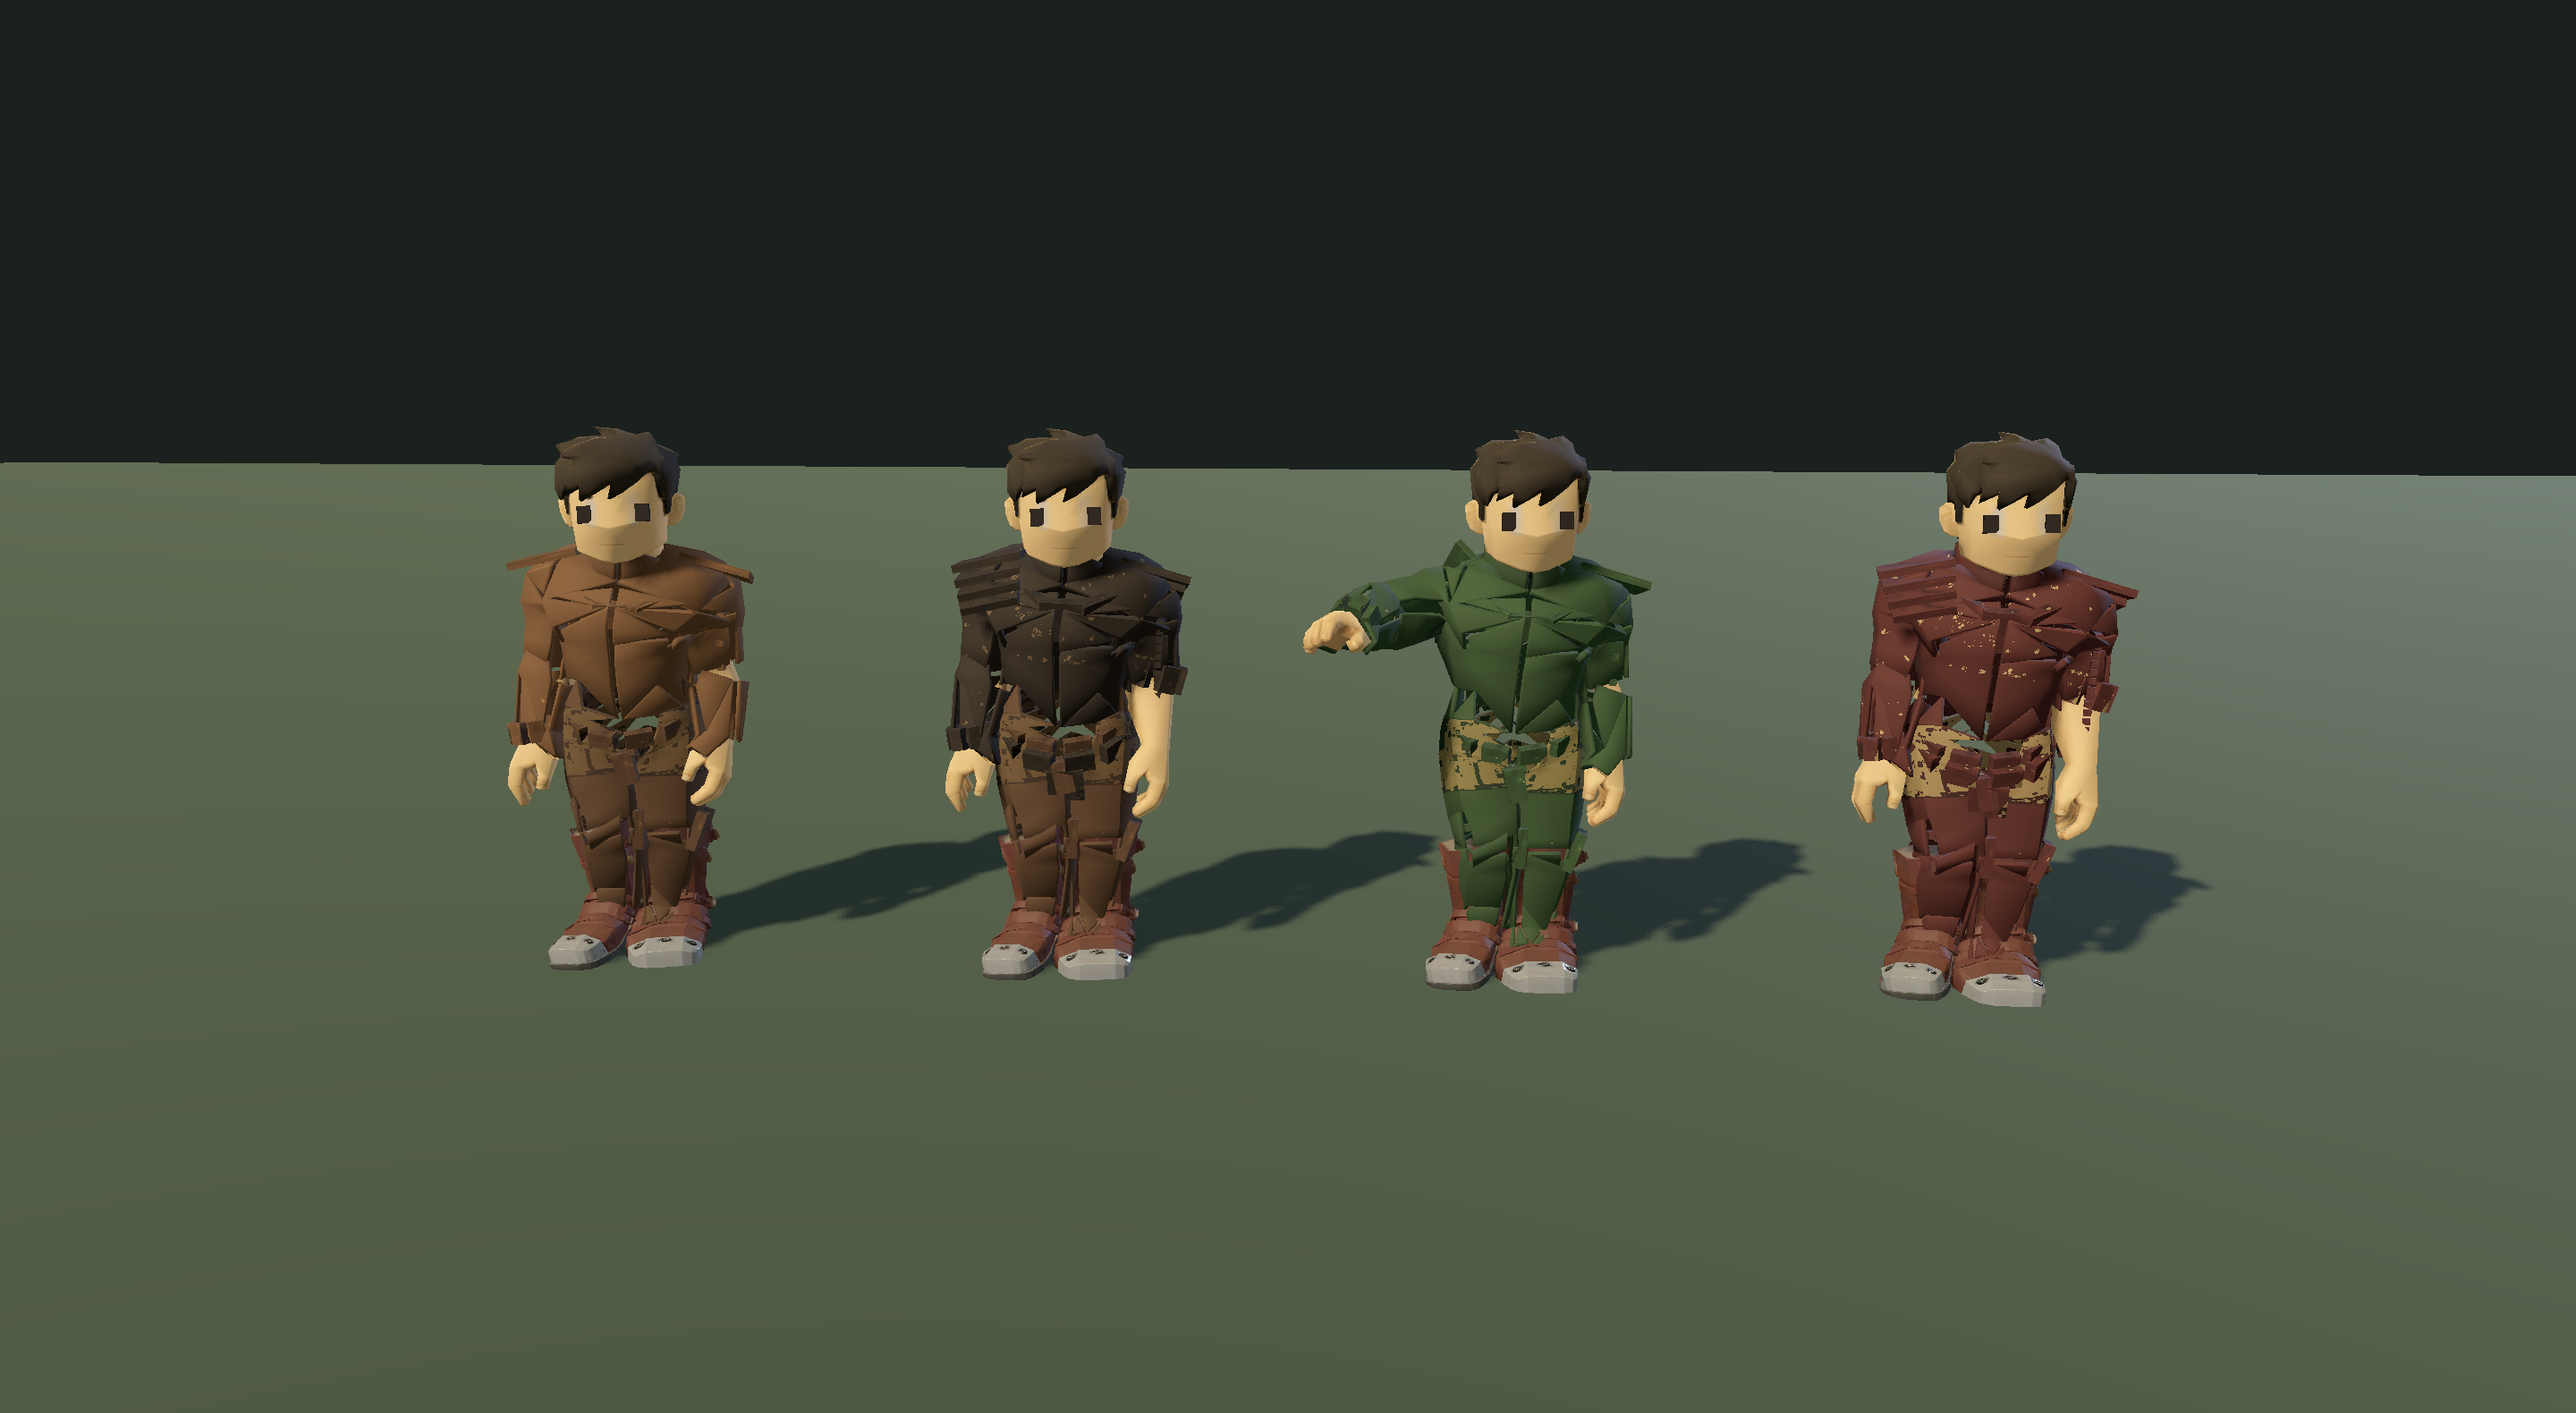
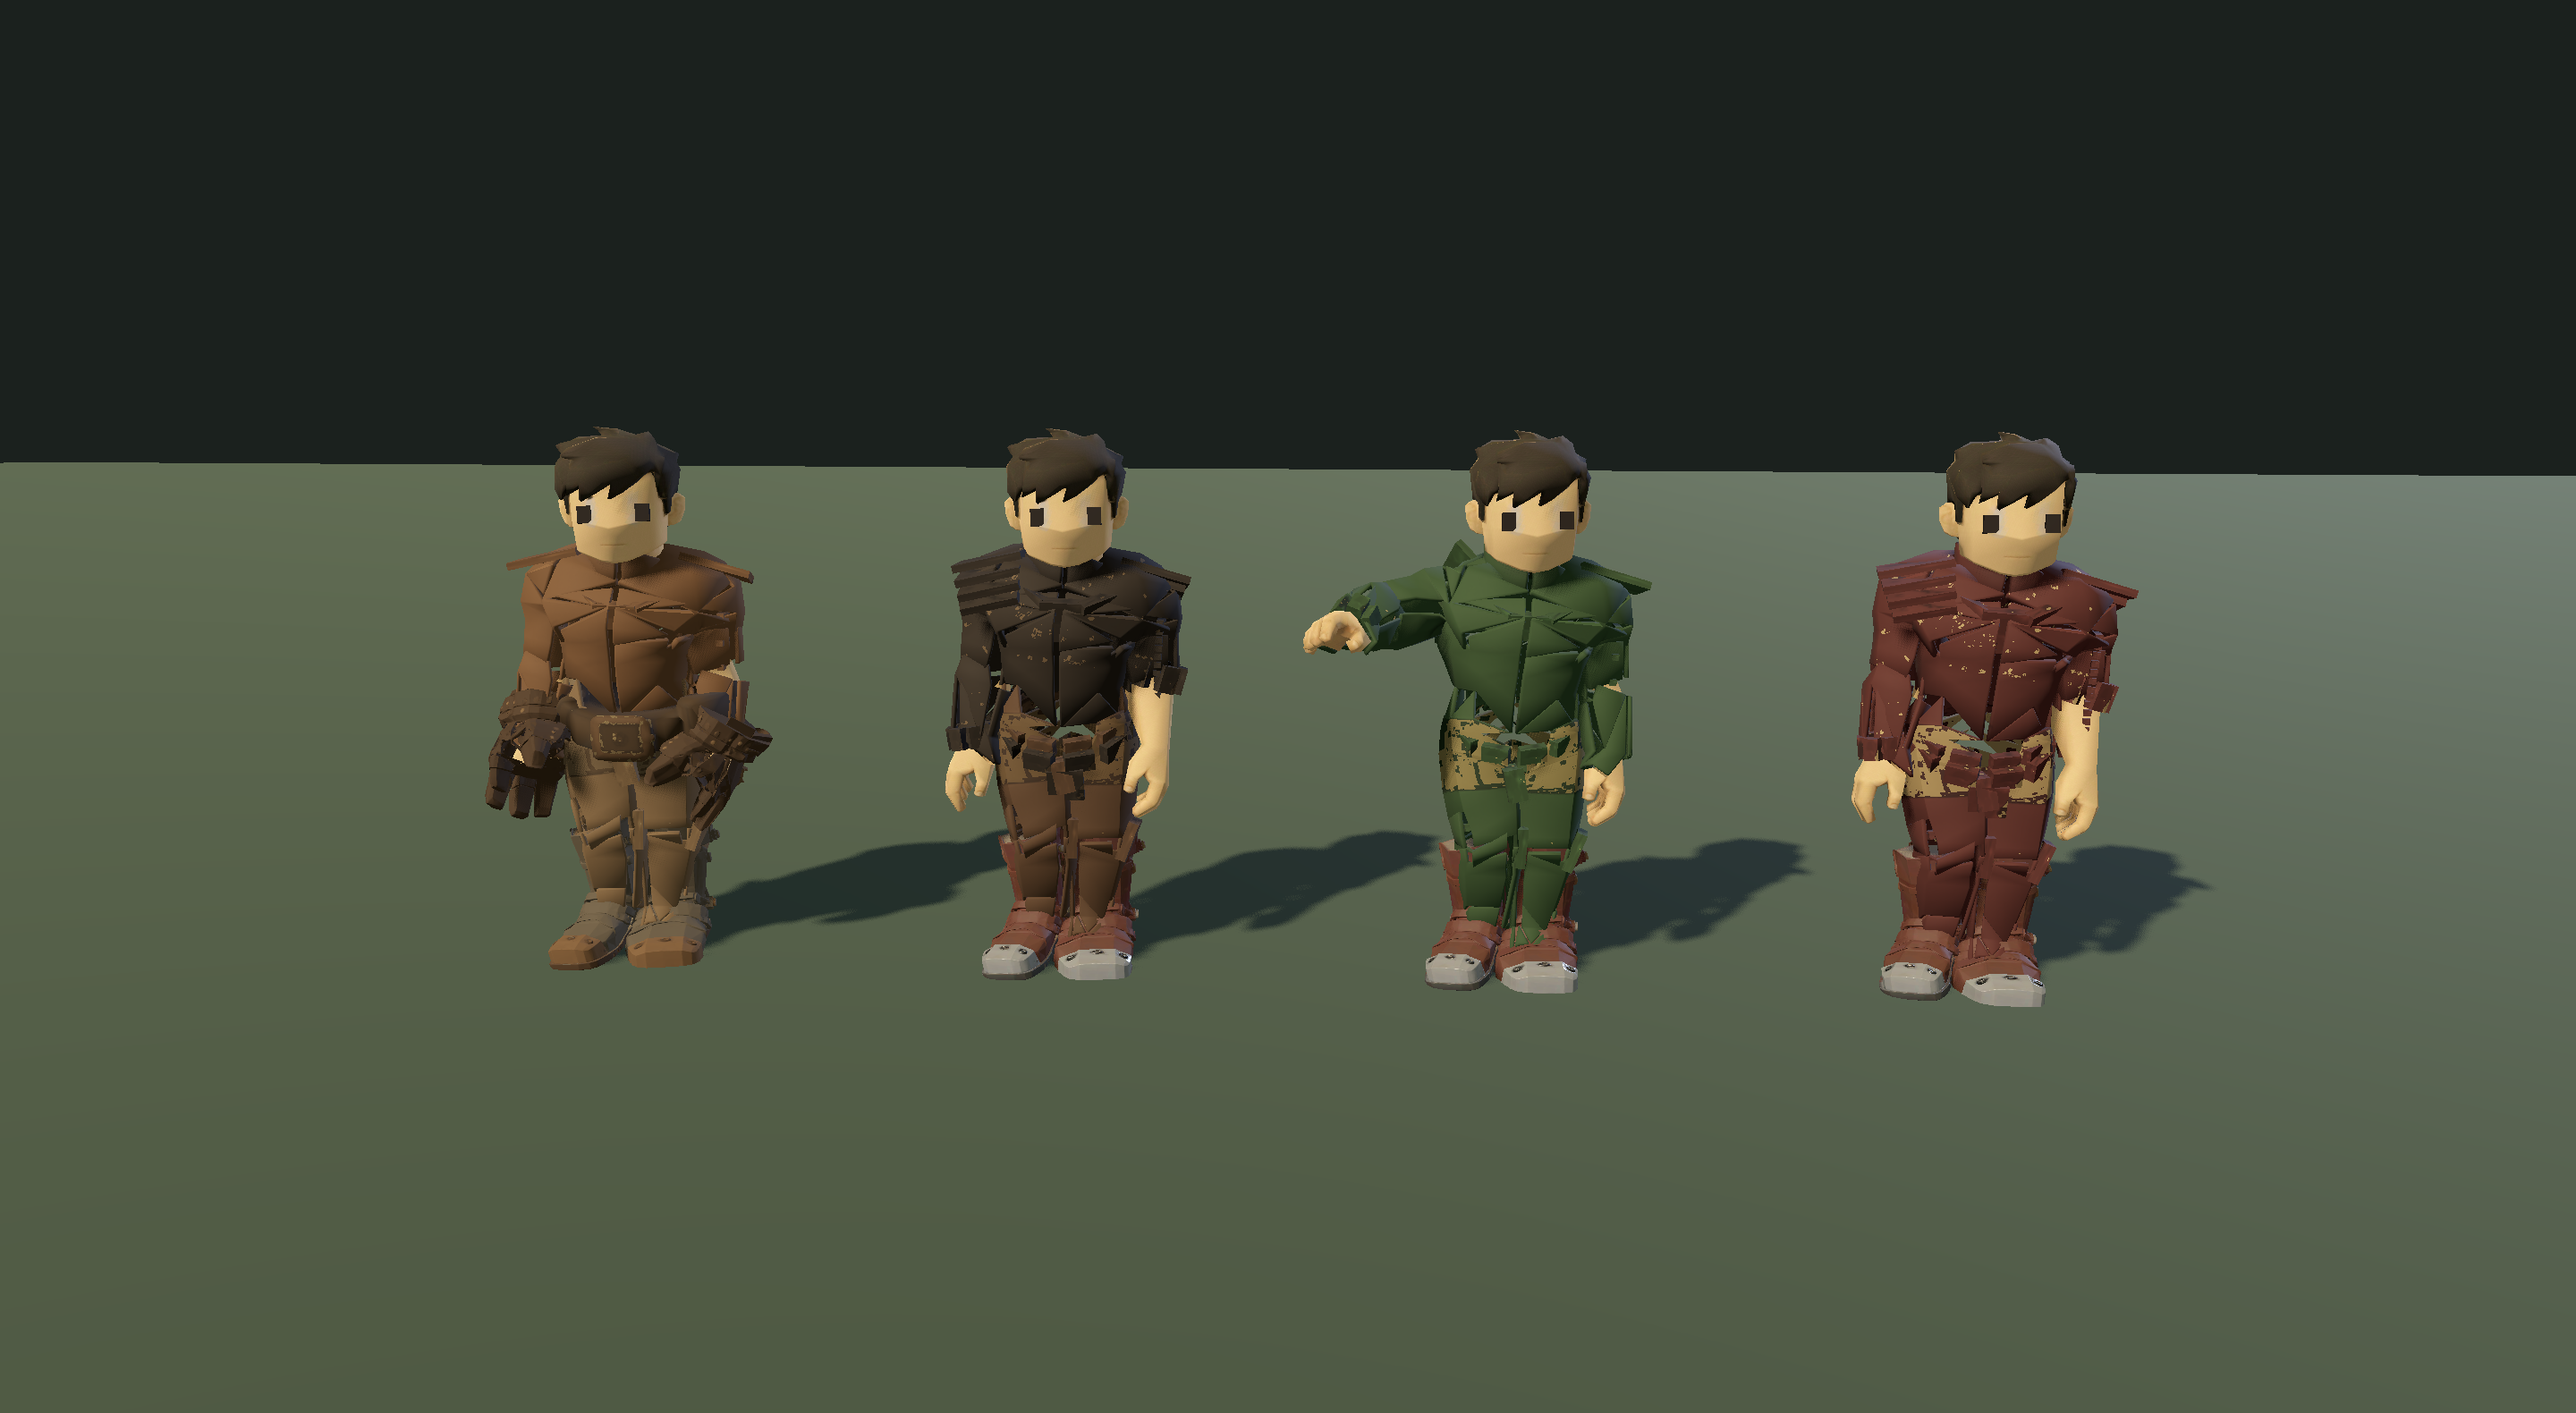
The full basic starter set, and a nod to the hedge maze.
Starter Trousers, Boots, Gloves and Belt: zero-stat leather basics
that Darkwood normals drop, so a fresh delver finishes dressing
without touching the power curve. Delvers still BEGIN without
trousers - and now the game owns the joke: GearDefinition gains a
flavor field (rendered at the foot of the gear tooltip), and the
trousers' line records that the guild has issued them ever since the
founder was recovered from a hedge maze wearing nothing at all. He
who fights with monsters should see to it that he first acquires
pants.

Lineup refreshed: the day-one basics next to the crafted and dyed
outfits. All 42 scene tests pass.

Changed region(s): [[0.1875, 0.4652, 0.3125, 0.6823], [0.3438, 0.6203, 0.375, 0.6513]]

diff --git a/CHANGELOG.md b/CHANGELOG.md
@@ -5,6 +5,16 @@ Notable changes per pull request. Newest first.
 ## Item overhaul — compiled garments become the items *(open)*
 
 ### Added
+- **The full basic starter set**: Starter Trousers, Boots, Gloves and
+  Belt — zero-stat leather basics dropped by Darkwood normals, so a
+  fresh delver can finish dressing without power creep. Delvers still
+  BEGIN without trousers; the trousers' flavor line explains the
+  guild's first provision ("ever since the founder was recovered from
+  a hedge maze wearing nothing at all") — a nod to a certain
+  outworlder.
+- **Gear flavor lines**: GearDefinition gains a `flavor` field shown
+  at the foot of the loadout tooltip — a lore channel on the item
+  itself.
 - **Real items wear the engine's garments**: Starter Armor is a newly
   compiled plain jacket (low volume, short collar, five clasps, no
   belt — humble through CONSTRUCTION, not color), Oiled Leathers is

diff --git a/README.md b/README.md
@@ -82,11 +82,12 @@ the item.**
 
 ![The leather outfit](docs/screenshots/leather_outfit_lineup.png)
 
-*Real items, compiled: Starter Armor (a plain jacket — humble through
-construction, not color), Oiled Leathers (the clasp-ladder jacket),
-and craftable Leather Trousers with knee pads and a thigh pouch. The
-right two delvers wear the same meshes re-dyed — the recolor lever on
-identical construction.*
+*Real items, compiled. Left: a day-one delver in the full zero-stat
+starter set (plain jacket, trousers, boots, gloves, belt). Then Oiled
+Leathers with crafted Leather Trousers, and the same meshes re-dyed —
+the recolor lever on identical construction. Fresh recruits still
+arrive without trousers; the guild has issued them ever since the
+founder was recovered from a hedge maze wearing nothing at all.*
 
 ## Features
 
